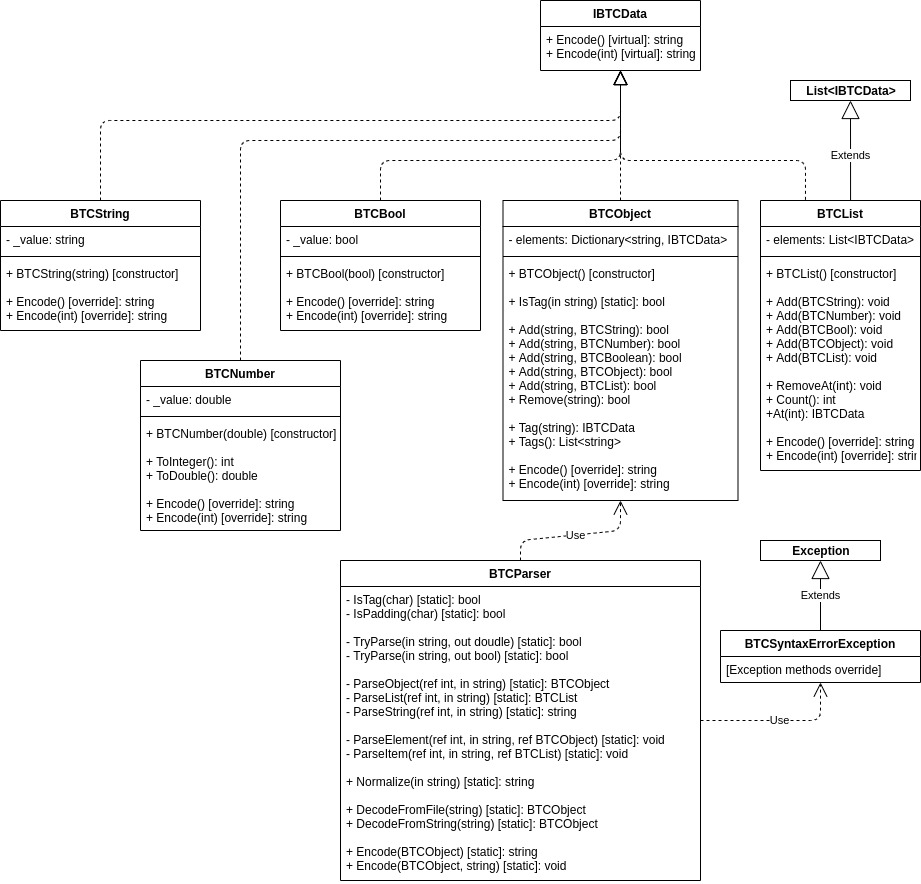
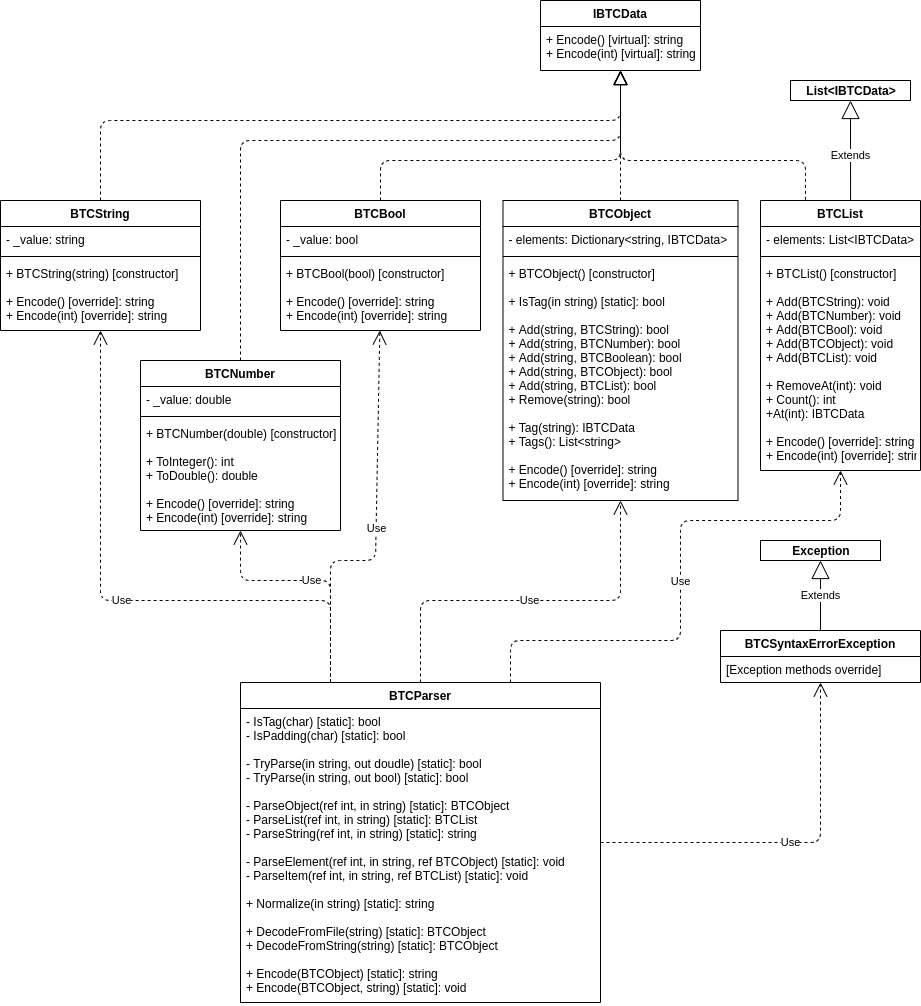
Update 'Relazione'

diff --git a/BTC/BTCParser.cs b/BTC/BTCParser.cs
@@ -70,8 +70,6 @@ namespace BTC
 				throw new BTCSyntaxErrorException("Syntax Error: Not A Tag. Found At: " + i);
 			
 			string tag = "";
-			//for (i += 1; IsTag(str[i]) ; i++)
-			//	tag += str[i];
 			for (i += 1; str[i] != '>'; i++)
 				tag += str[i];
 

diff --git a/Relazione/Relazione.md b/Relazione/Relazione.md
@@ -1,14 +1,58 @@
-# Relazione
+# Relazione progetto di Programmazione e Modellazione ad Oggetti (PMO)
+## Specifica
+Il progetto consiste nella realizzazione di un PARSER per la specifica [BTC](https://github.com/GeckoNickDeveloper/BluetoothTagChain). Suddetto PARSER dovrà consentire sia la codifica in testo (e/o scrittura su file) che la decodifica da testo (o file). Per la codifica sarà necessario creare un oggetto da serializzare.
+## Studio del problema
+Dalla [specifica](https://github.com/GeckoNickDeveloper/BluetoothTagChain) del file di testo, notiamo subito che vi sono tre principali problematiche per la realizzazione del progetto:
+1. La rappresentazione della struttura ad albero
+2. Algoritmo di parsing (decoding)
+3. Algoritmo di encoding
 
-### Specifica
 
-### Studio del problema
+## Scelte architetturali
+In questa sezione andremo a spiegare le principali scelte architetturali. Esse hanno l'intento di essere il più indipendenti possibili dal linguaggio, anche se alcune particolarità sono state espresse con le parole chiave del linguaggio C# (in cui questo progetto software è stato scritto).
 
-### Scente architetturali
+#### struttura dati
+Durante la fase di modellazione del progetto, è capitato più volte di creare diagrammi UML. Inizialmente, per la rappresentazione della struttura dati di tipo _albero_, vi sono stati numerosi possibili diagrammi delle classi dovuti all'aggiornamento delle specifiche BTC, che tuttavia non risultavano efficaci e portavano solo inutile complessità all'interno del progetto vero e proprio. Si è dunque optato per l'utilizzo di un design pattern particolarmente adatto a rappresentare _alberi_: il **_Composite Pattern_**. Ma anche allora esistevano diverse soluzioni che si basavano sul _pattern_ scelto.<br>
+Una consisteva nel creare 3 **classi chiave** ed 1 interfaccia comune (_Component_ nella definizione del pattern), dove ogni classe chiave implementava l'interfaccia comune:
+- `IBTCData` (interfaccia)
+1. `BTCObject`
+2. `BTCList`<T>
+3. `BTCElement`<T>
+Tuttavia questa soluzione implicava che venissero create delle **sottoclassi di specializzazione** per _BTCElement_ e _BTCList_; quindi venne scartata in quanto avrebbe causato una eccessiva complessità del _package_ ed avrebbe dato troppa libertà all'utente che avrebbe utilizzato questa libreria. Libertà che avrebbe potuto portare il progetto a rivelarsi inutile. Inoltre, con uno degli aggiornamenti della specifica BTC, si è rivelato un modello non consono alla rappresentazione.<br>
+Un'altra possibile implementazione consisteva in:
+- `IBTCData` (interfaccia)
+1. `BTCObject`
+2. `BTCList : List<IBTCData>`
+3. `BTCElement<T>`
+Ancora una volta, però, l'ipotesi è stata abbandonata, in quanto esponeva troppe funzionalità rispetto all'utilizzo previsto, nonchè alla necessità di creare classi di specializzazione che estendessero `BTCElement<T>` lasciando all'utente la possibilità di "fare danni".<br>
+L'ultima soluzione che vedremo all'interno di questo documento, sarà quella effettivamente adottata. Tale soluzione consiste in 5 classi (più solita interfaccia) dove, nonostante l'apparente inefficienza, ogni classe è specializzata e non permette all'utente finale di "rompere" la libreria in se. In questo caso, quindi:
+1. `BTCString`
+2. `BTCNumber`
+3. `BTCBool`
+4. `BTCObject`
+5. `BTCList`
+Dove le classi semplici sono quelle numerate da 1 a 3, mentre quelle complesse (4 e 5) espongono metodi per la sola gestione delle classi elencate (più qualche metodo per le informazioni importanti).
+
+#### algoritmi
+Dal punto di vista algoritmico, invece, vi è stata più attenzione. Innanzituto è stata creata la classe _BTCParser_ con lo scopo di esporre dei metodi che permettano la codifica e decodifica di un file BTC. Siccome questi metodi non necessitano della creazione di un'istanza, sono definiti come statici (come tutti gli altri metodi della classe)
+
+
+
+
+
+
+#### Diagramma delle classi
+Come risultato della modellazione e della progettazione della struttura dati e degli algoritmi implementati, è nato questo _diagramma delle classi_:<br>
+![Diagramma UML delle classi](https://github.com/GeckoNickDeveloper/Progetto-PMO/blob/master/Relazione/src/BTC.jpg)
 
 ### Documentazione sull'utilizzo
+[Questo](https://github.com/GeckoNickDeveloper/Progetto-PMO/tree/master/BTC) software non richiede compilazione per essere eseguito, in quanto consiste in una libreria (con relativo DLL) importabile in qualsiasi progetto software svilutppato tramite linguaggio _C#_.<br>
+Per testarla, invece, è già stato realizzato un [programma](https://github.com/GeckoNickDeveloper/Progetto-PMO/tree/master/Testing) di testing dove andiamo a generare un file `generated.btc` con delle informazioni fittizie, leggerlo nuovamente effettuandone il PARSING ed aggiungendogli un TAG con relativo valore per, infine, riscriverlo nello stesso file sopracitato.
 
+> NOTA:<br>
+> Tutto il progetto è stato scritto, compilato ed eseguito su piattaforma Linux (nello specifico sulla
+> distribuzione Manjaro, derivata di Arch) tramite tool `dotnet` e `Visual Studio Code`.
 
-### Use Cases con relativo schema OML
+Una documentazione sull'utilizzo delle funzionalità pubbliche esposte dalla libreria (classi, interfacce) è disponibile all'interno della repository in '/docs/html/index.html' ed è facilmente consultabile da browser una volta clonata la repository in locale. 
 
-![UML Diagram](https://github.com/GeckoNickDeveloper/Progetto-PMO/blob/master/Relazione/src/BTC.jpg)
+### Use Cases con relativo schema UML

diff --git a/README.md b/README.md
@@ -7,3 +7,4 @@ Matricola:			#291188<br>
 Titolo progetto:	BTCParser<br>
 
 ### Specifica Progetto
+Il progetto consiste nella realizzazione di un PARSER per la specifica [BTC](https://github.com/GeckoNickDeveloper/BluetoothTagChain). Suddetto PARSER dovrà consentire sia la codifica in testo (e/o scrittura su file) che la decodifica da testo (o file). Per la codifica sarà necessario creare un oggetto da serializzare.
